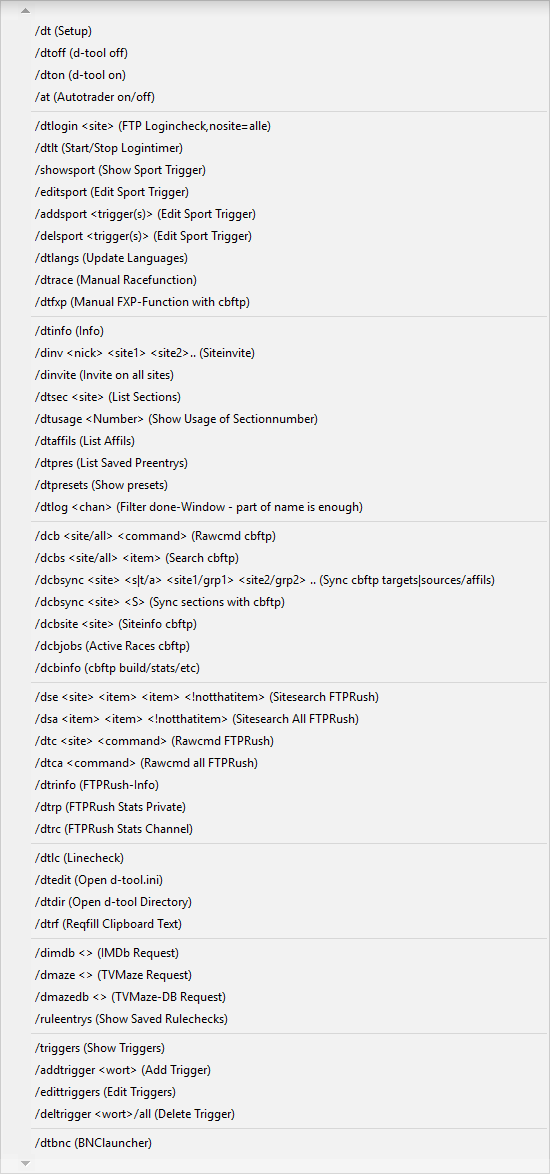
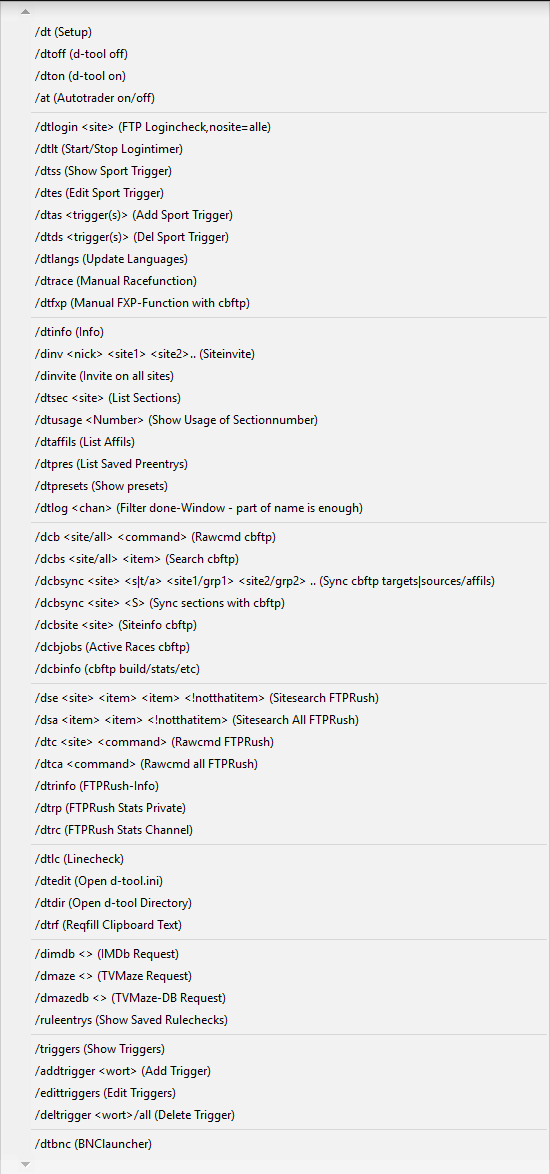
commands.fix

diff --git a/Funktionsweise.html b/Funktionsweise.html
@@ -181,7 +181,7 @@ Und allgemein wichtig:
         <br />
         Eine andere Besonderheit von cbftp sind die festgelegten Pfade der Sektionen, die bei Spreadjobs genutzt werden.<br />
         Genauso wie d-tool nutzt auch cbftp Obersektionen, die auf den einzelnen Sites  definiert werden in Form eines Namens und eines Pfades.
-        Da es sowohl Redirects als auch Dated Sections ohne Today-Ordner notwendig machen, dass man den Pfad anpasst, muss d-tool es in dem Fall als Transferjob. Transferjobs sind meistens nicht so effektiv wie Spreadjobs, es bedeutet also immer eher einen Nachteil. Die Alternative wäre allerdings es gar nicht zu schicken, weil cbftp beim Spreadsystem eben seine festgelegten Pfade hat.<br />
+        Da es sowohl Redirects als auch Dated Sections ohne Today-Ordner notwendig machen, dass man den Pfad anpasst, muss d-tool es in dem Fall als Transferjob senden. Transferjobs sind meistens nicht so effektiv wie Spreadjobs, es bedeutet also immer eher einen Nachteil. Die Alternative wäre allerdings es gar nicht zu senden.<br />
       </p></td>
     <td width="228">&nbsp;</td>
   </tr>

diff --git a/Commands.html b/Commands.html
@@ -128,10 +128,10 @@ _____________________________________________________________ <br>
 <br>
 <strong>/dtlogin &lt;site&gt;</strong> - FTP Logincheck, keine Siteangabe = alle Server<br />
 <strong>/dtlt </strong> -  Logintimer starten/stoppen<br />
-<strong>/showsport</strong> - Sport Trigger anzeigen<br>
-<strong>/editsport </strong> - Sport Trigger bearbeiten<br />
-<strong>/addsport &lt;trigger(s)&gt;</strong> - Sport Trigger adden<br />
-<strong>/delsport</strong> <strong>&lt;trigger(s)&gt;</strong> - Sport Trigger löschen<br />
+<strong>/dtss</strong> - Sport Trigger anzeigen<br>
+<strong>/dtes </strong> - Sport Trigger bearbeiten<br />
+<strong>/dtas &lt;trigger(s)&gt;</strong> - Sport Trigger adden<br />
+<strong>/dtds</strong> <strong>&lt;trigger(s)&gt;</strong> - Sport Trigger löschen<br />
   <strong>/dlangs - </strong>Manuelles Updaten der Sprachen durch die Listen im d-tool Ordner
   <br>
   <strong>/dtrace - </strong>Manuelle Racefunktion (zum testen)<br>
